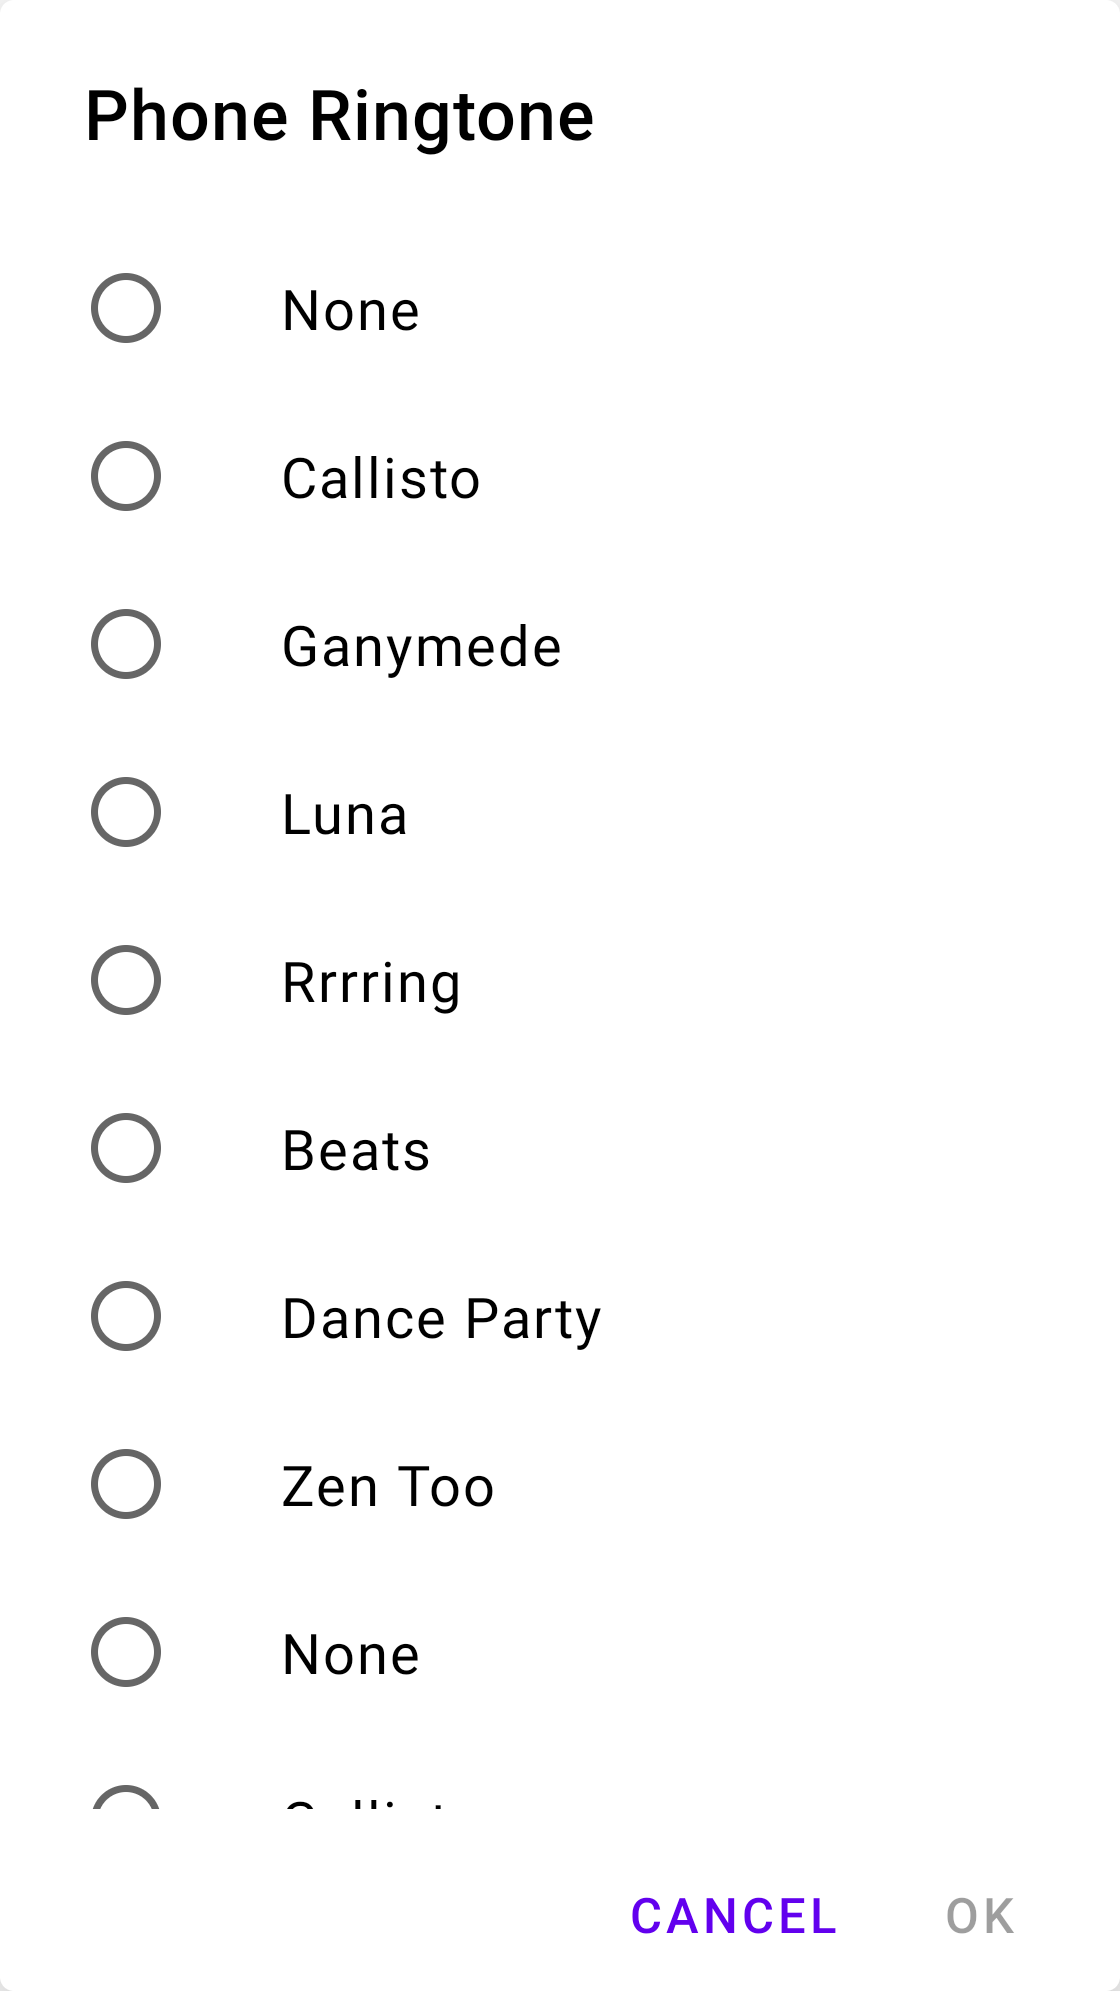
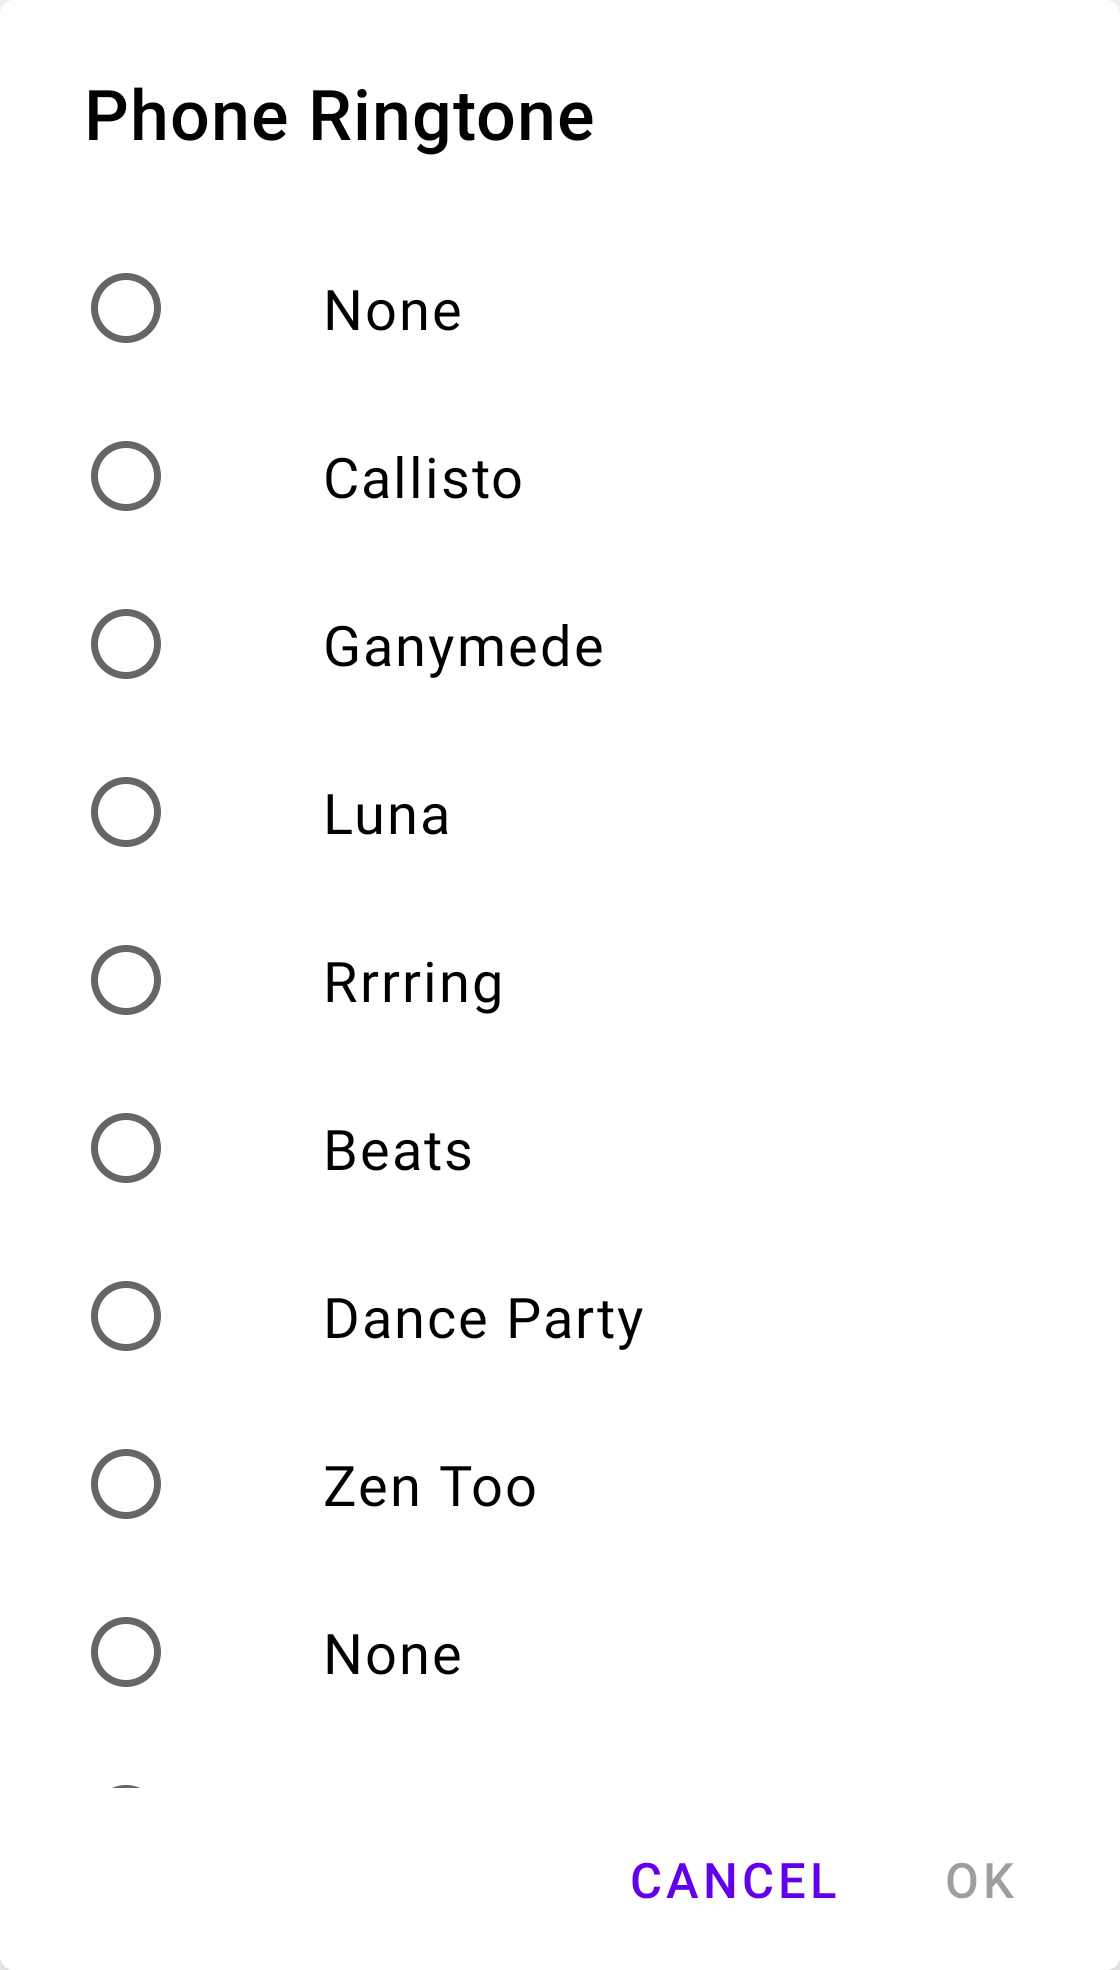
Fix start padding for selection dialogs

diff --git a/core/src/main/java/com/vanpra/composematerialdialogs/MaterialDialogLists.kt b/core/src/main/java/com/vanpra/composematerialdialogs/MaterialDialogLists.kt
@@ -65,7 +65,6 @@ fun <T> MaterialDialogScope.listItems(
                             },
                             enabled = isEnabled(index)
                         )
-                        .padding(horizontal = 24.dp)
                 ) {
                     item(index, it)
                 }
@@ -98,7 +97,7 @@ fun MaterialDialogScope.listItems(
             style = MaterialTheme.typography.body1,
             modifier = Modifier
                 .fillMaxWidth()
-                .padding(vertical = 12.dp)
+                .padding(vertical = 12.dp, horizontal = 24.dp)
                 .wrapContentWidth(Alignment.Start)
         )
     }
@@ -232,7 +231,8 @@ private fun MultiChoiceItem(
     Row(
         Modifier
             .fillMaxWidth()
-            .height(48.dp),
+            .height(48.dp)
+            .padding(start = 12.dp, end = 24.dp),
         verticalAlignment = Alignment.CenterVertically
     ) {
         Checkbox(checked = selected, onCheckedChange = { onChecked(index) }, enabled = enabled)
@@ -264,7 +264,8 @@ private fun SingleChoiceItem(
     Row(
         Modifier
             .fillMaxWidth()
-            .height(48.dp),
+            .height(48.dp)
+            .padding(start = 12.dp, end = 24.dp),
         verticalAlignment = Alignment.CenterVertically
     ) {
         RadioButton(

diff --git a/app/src/main/java/com/vanpra/composematerialdialogdemos/demos/ListDialog.kt b/app/src/main/java/com/vanpra/composematerialdialogdemos/demos/ListDialog.kt
@@ -73,7 +73,7 @@ fun BasicListDialogDemo() {
     DialogAndShowButton(buttonText = "Custom List Dialog") {
         title(res = R.string.backup_dialog_title)
         listItems(
-            modifier = Modifier.padding(bottom = 8.dp),
+            modifier = Modifier.padding(bottom = 8.dp).padding(horizontal = 24.dp),
             list = emails,
             item = { _, email ->
                 Row(Modifier.fillMaxWidth()) {
